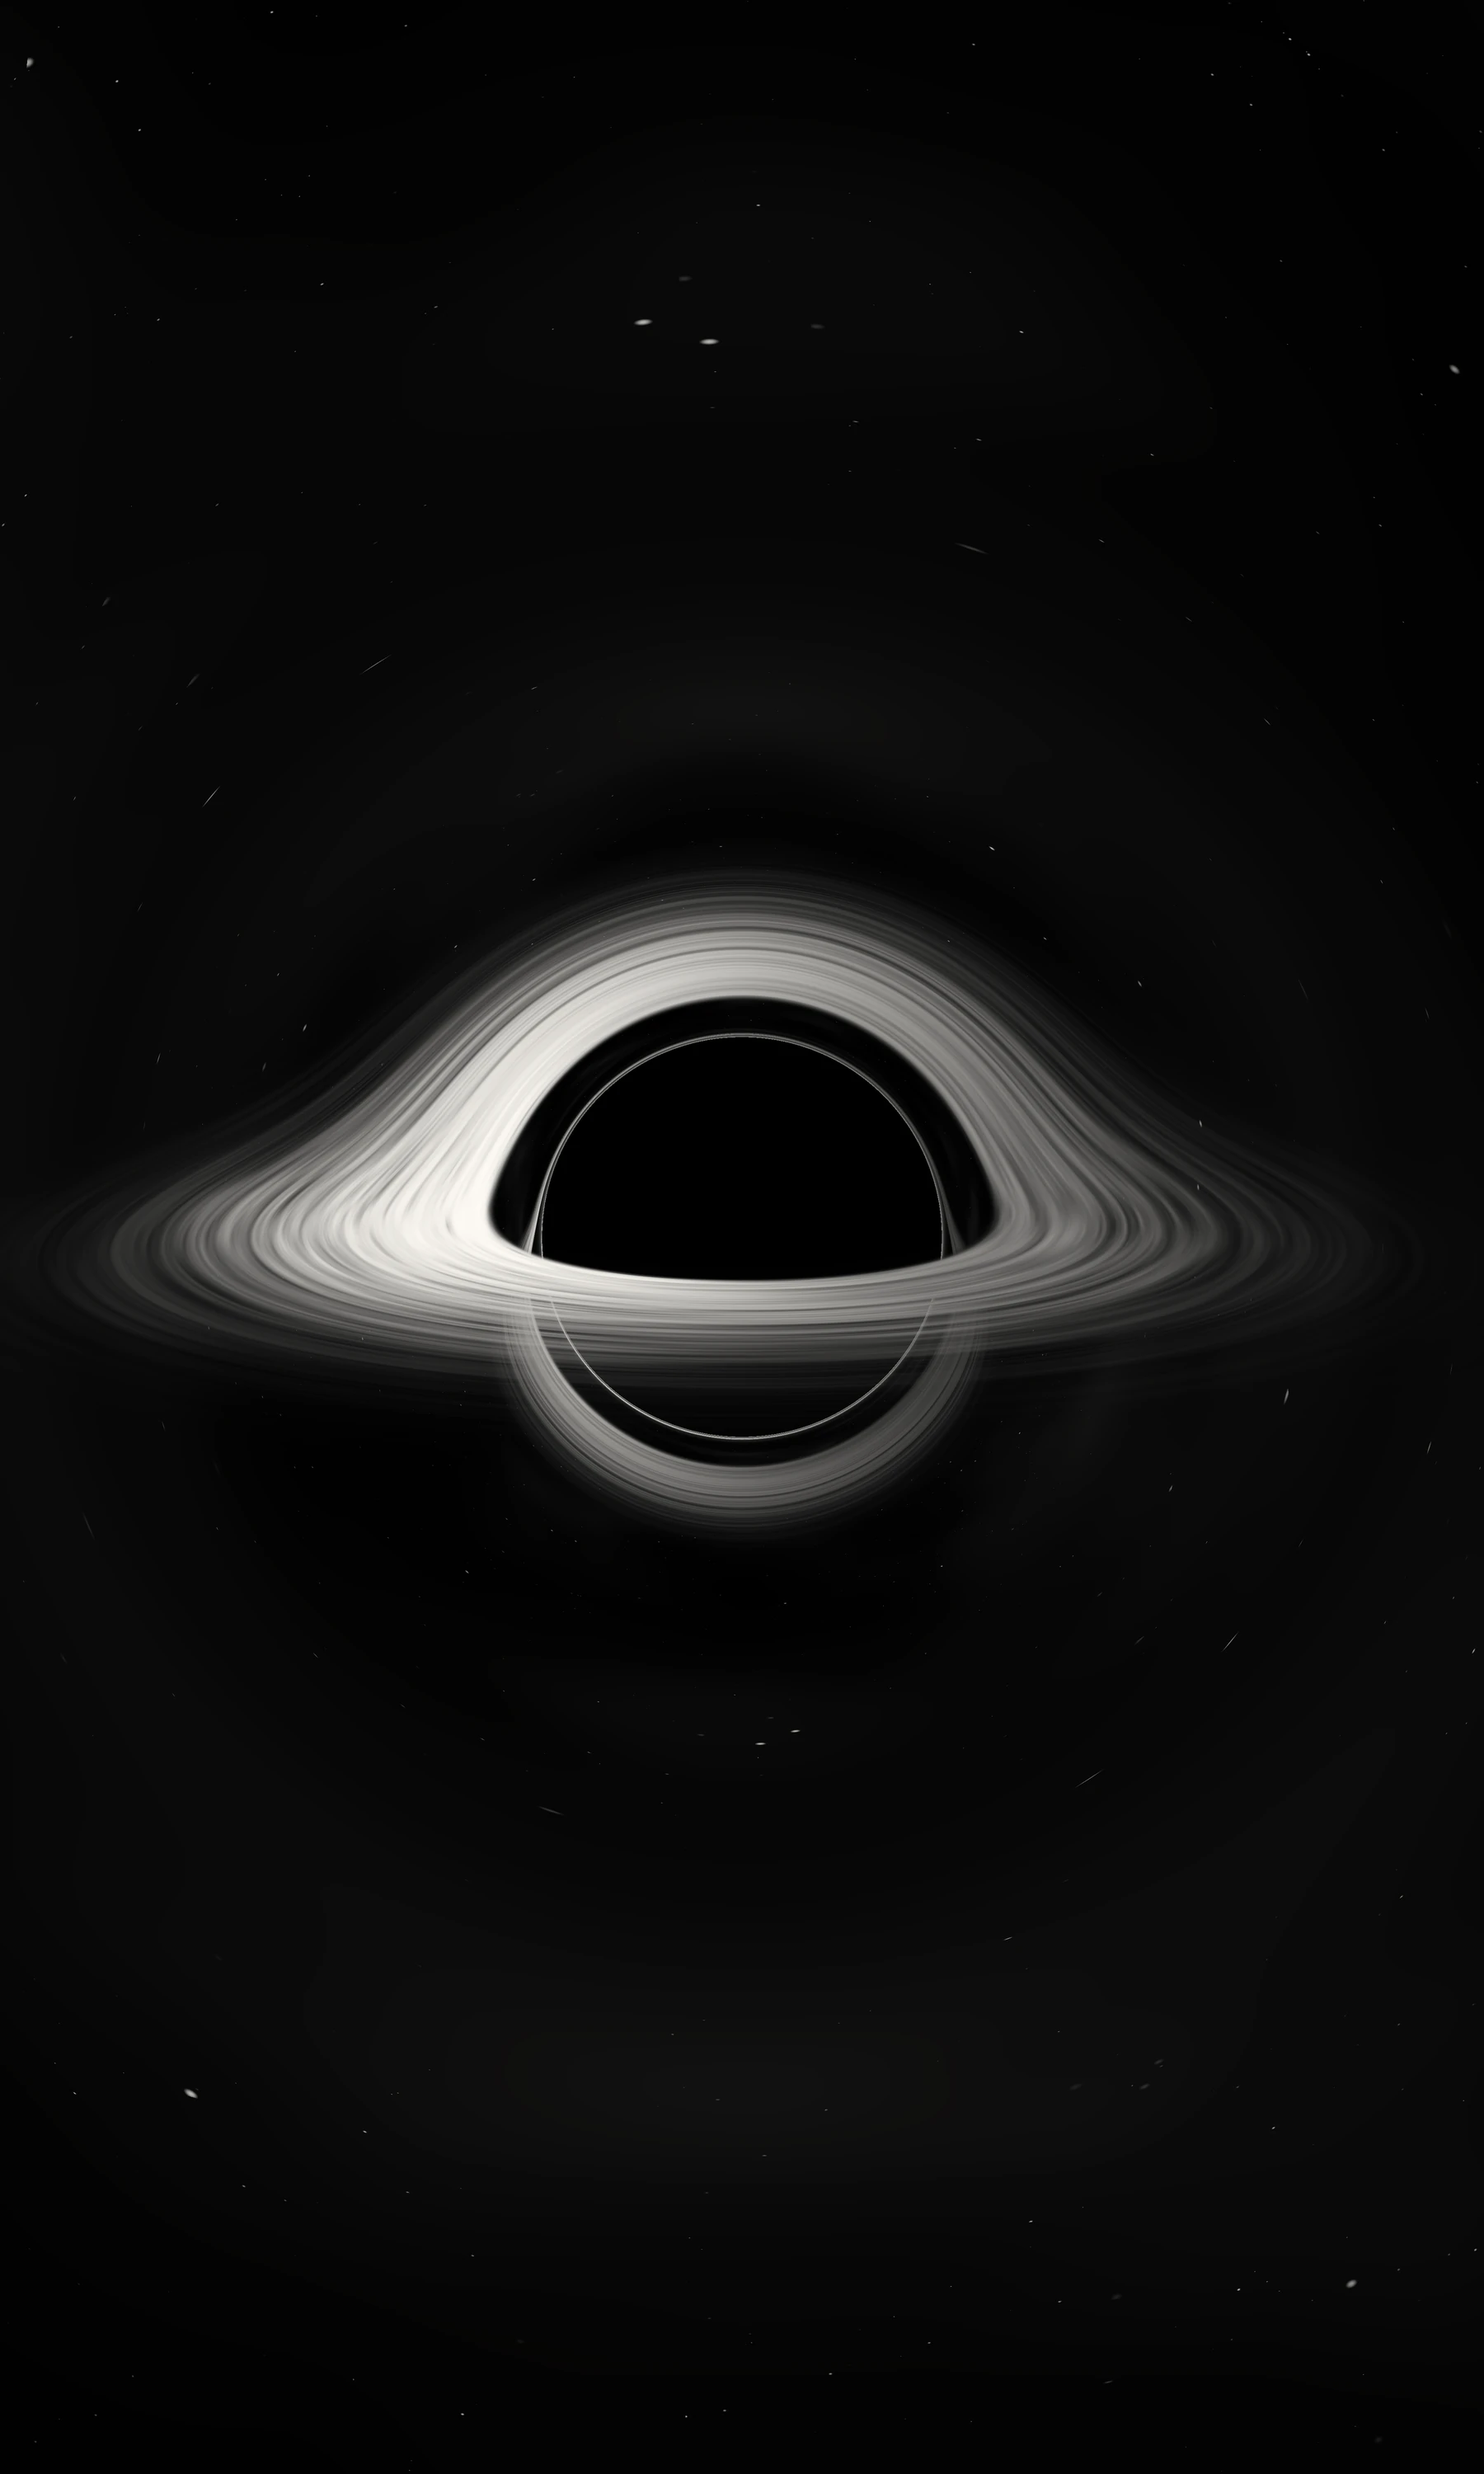
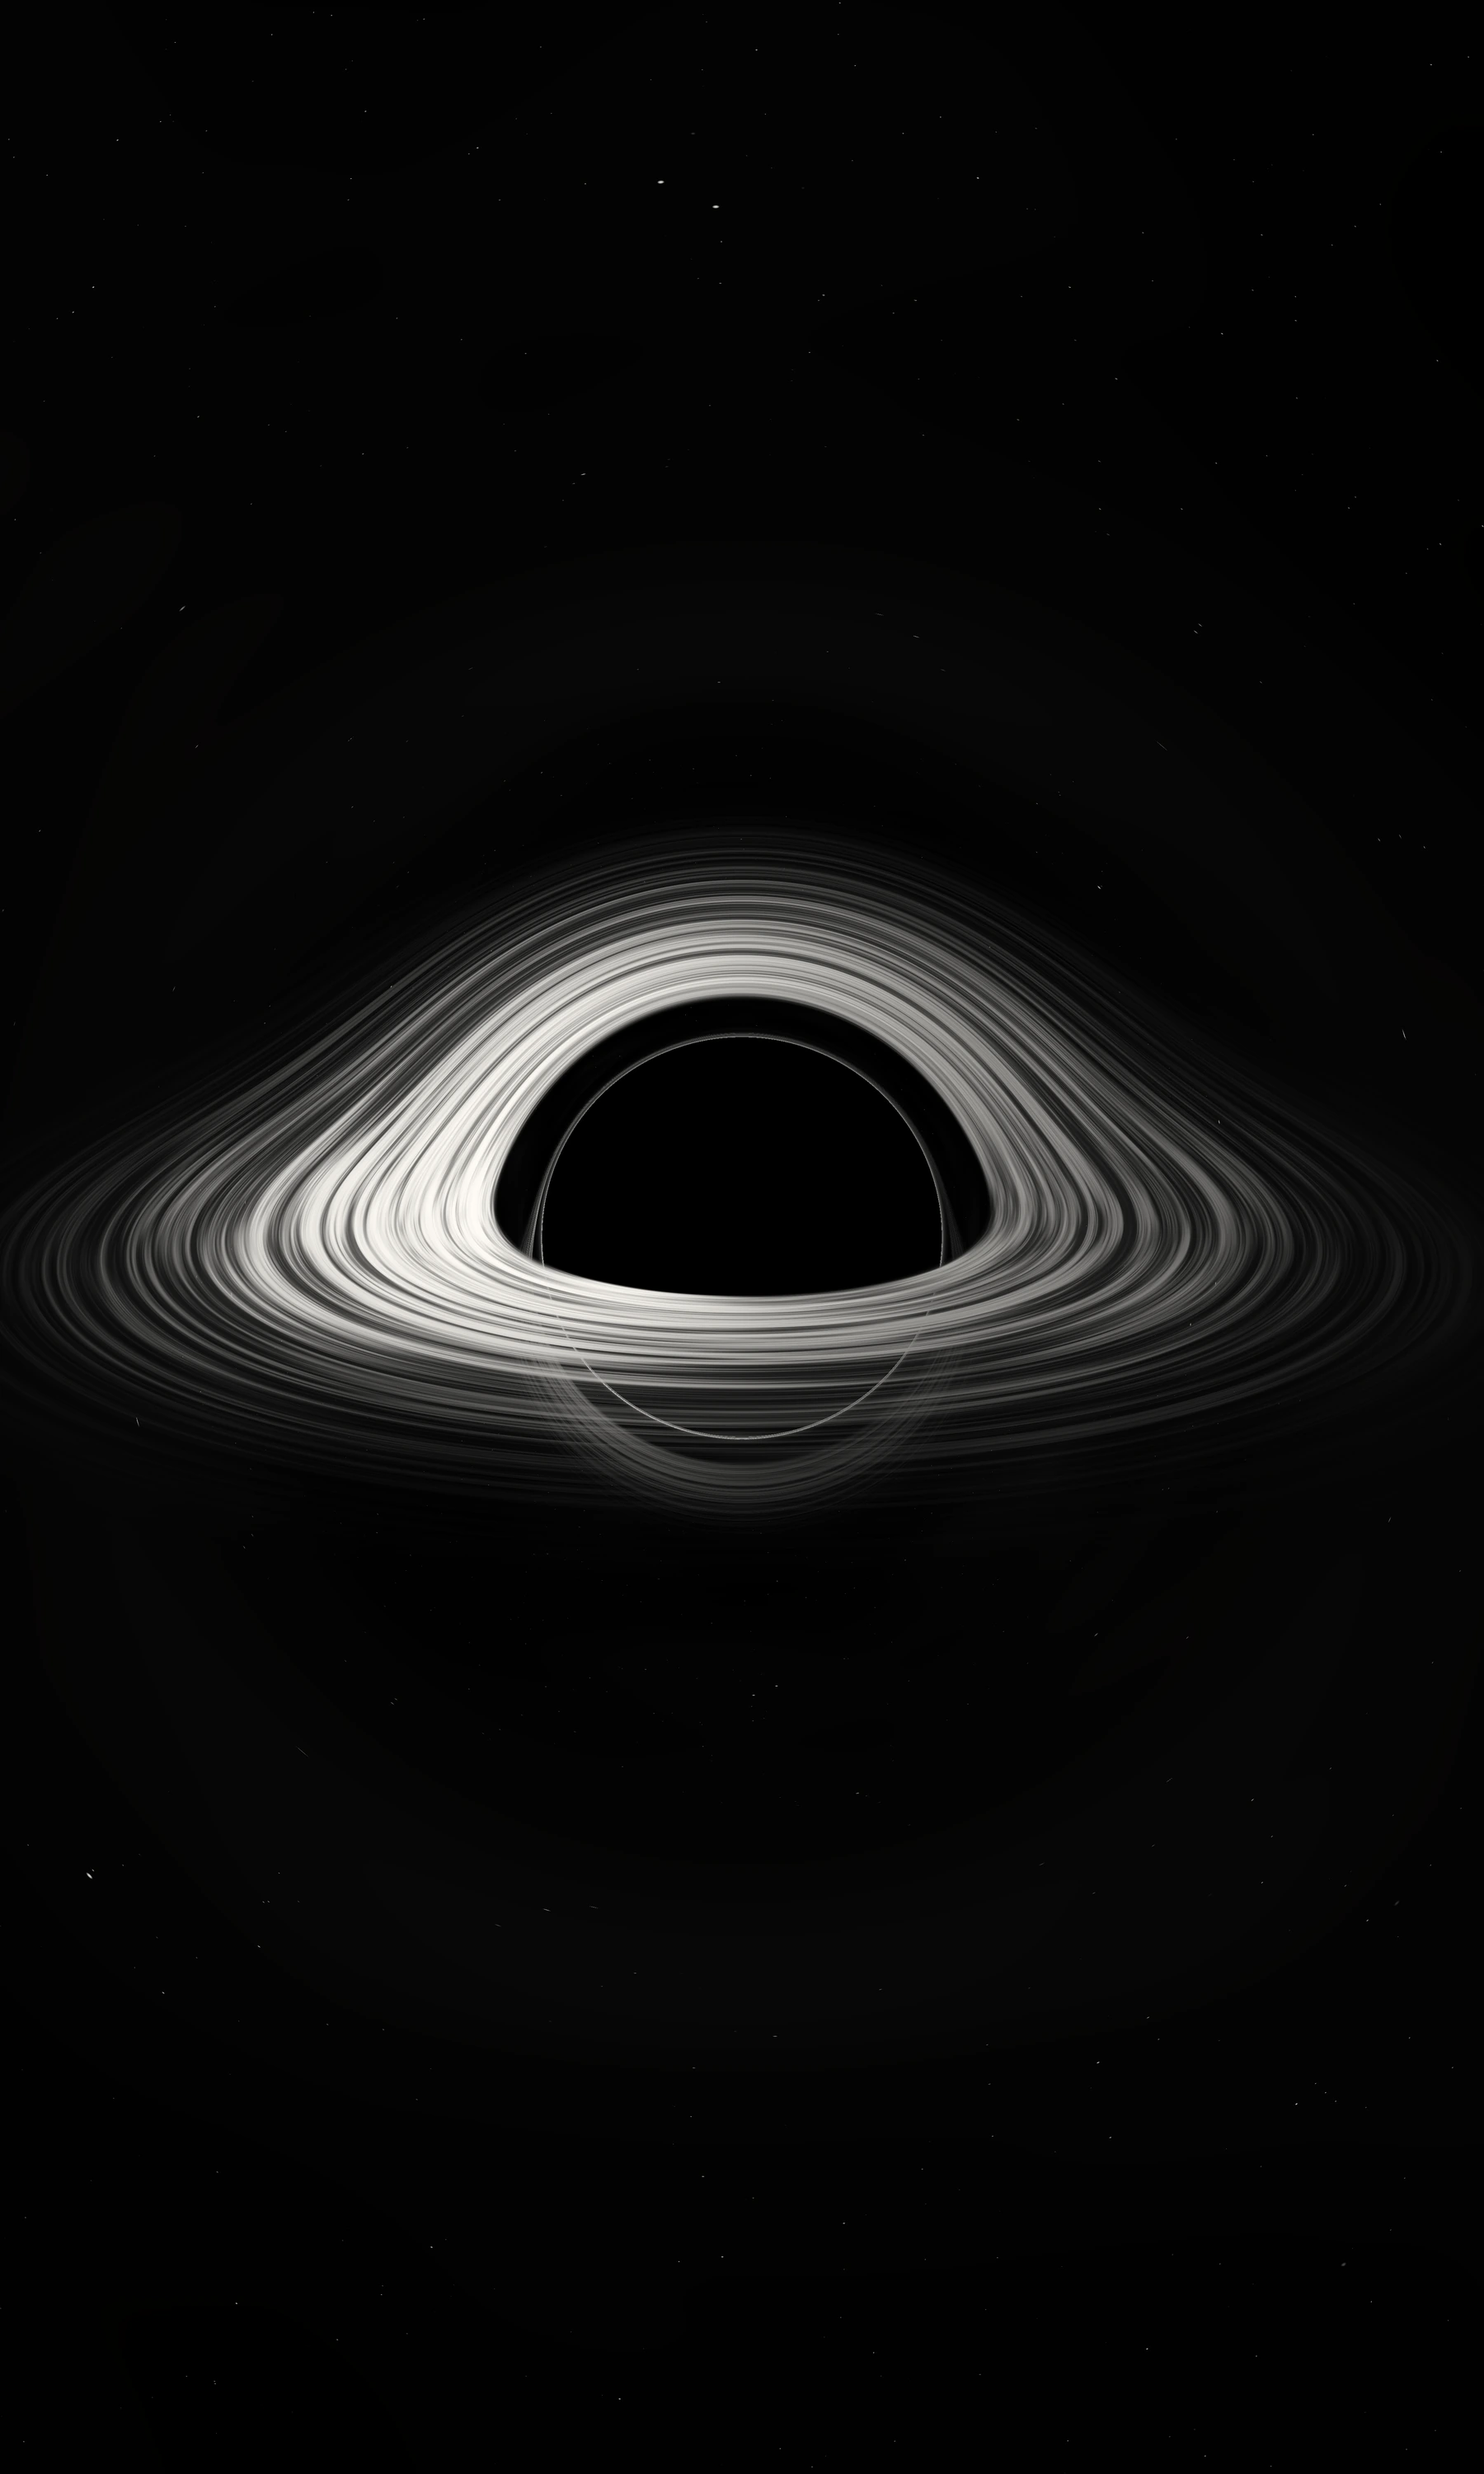
Site: a crisper black hole with a faint lower arc; its renderer lives in marketing/black-hole
No haze, finer high-contrast streaks with a clean outer edge, pinpoint stars, full contrast. The camera sits
higher and the underside of the disk is quiet, so the arc under the hole is a thin line.

Changed region(s): [[0.0622, 0.341, 0.8711, 0.62]]

diff --git a/marketing/black-hole/render.html b/marketing/black-hole/render.html
@@ -1,0 +1,98 @@
+<!doctype html><html><body style="margin:0;background:#000">
+<canvas id="c"></canvas>
+<script>
+const FS = `
+    precision highp float;
+    uniform vec2 uRes; uniform float uT; uniform vec2 uLook; uniform float uZoom;
+    float hash(vec2 p){ p = fract(p * vec2(123.34, 456.21)); p += dot(p, p + 45.32); return fract(p.x * p.y); }
+    float noise(vec2 p){ vec2 i = floor(p), f = fract(p); f = f * f * (3. - 2. * f);
+      return mix(mix(hash(i), hash(i + vec2(1, 0)), f.x), mix(hash(i + vec2(0, 1)), hash(i + vec2(1, 1)), f.x), f.y); }
+    float fbm(vec2 p){ float v = 0., a = .5; for (int i = 0; i < 5; i++) { v += a * noise(p); p = p * 2.03 + vec2(1.7, 9.2); a *= .5; } return v; }
+    // the sky, looked up by 3D direction so it has no seam for the lensing to bend into a ring
+    float hash3(vec3 p){ p = fract(p * .3183099 + .1); p *= 17.; return fract(p.x * p.y * p.z * (p.x + p.y + p.z)); }
+    float noise3(vec3 x){ vec3 i = floor(x), f = fract(x); f = f * f * (3. - 2. * f);
+      return mix(mix(mix(hash3(i), hash3(i + vec3(1,0,0)), f.x), mix(hash3(i + vec3(0,1,0)), hash3(i + vec3(1,1,0)), f.x), f.y),
+                 mix(mix(hash3(i + vec3(0,0,1)), hash3(i + vec3(1,0,1)), f.x), mix(hash3(i + vec3(0,1,1)), hash3(i + vec3(1,1,1)), f.x), f.y), f.z); }
+    vec3 sky(vec3 d){
+      vec3 c = vec3(0.);
+      for (int L = 0; L < 3; L++) {
+        float sc = 70. + float(L) * 120.;
+        vec3 g = d * sc, id = floor(g);
+        float h = hash3(id + float(L) * 13.1);
+        if (h > .9) {
+          vec3 o = vec3(hash3(id + 1.3), hash3(id + 5.9), hash3(id + 9.4));
+          float r = length(g - id - o);
+          c += vec3(smoothstep(.075, .0, r) * (.25 + (h - .9) * 18.));
+        }
+      }
+      float haze = noise3(d * 3.) * .6 + noise3(d * 7.) * .3 + noise3(d * 15.) * .1;
+      c += vec3(.012) * pow(haze, 4.) * 4.;
+      return c;
+    }
+    void main(){
+      vec2 uv = (gl_FragCoord.xy - .5 * uRes) / uRes.y * uZoom;
+      float pitch = .28 + uLook.y, yaw = uLook.x;
+      vec3 ro = vec3(sin(yaw) * cos(pitch), sin(pitch), -cos(yaw) * cos(pitch)) * 28.;
+      vec3 fw = normalize(-ro), rt = normalize(cross(vec3(0., 1., 0.), fw)), up = cross(fw, rt);
+      vec3 pos = ro, vel = normalize(fw * 2. + rt * uv.x + up * uv.y);
+      float h2 = dot(cross(pos, vel), cross(pos, vel));
+      vec3 col = vec3(0.); float a = 0., glow = 0., haze = 0.; bool fell = false;
+      for (int i = 0; i < 900; i++) {
+        float r2 = dot(pos, pos), r = sqrt(r2);
+        if (r < 1.) { fell = true; break; }
+        float dt = clamp(.016 * r * r / (r + 2.), .004, .5);   // fine steps near the hole: a clean shadow edge
+        vec3 prev = pos;
+        vel += -1.5 * h2 * pos / (r2 * r2 * r) * dt;
+        pos += vel * dt;
+        // light that skims the photon sphere (r = 1.5) piles up into the thin bright ring around the shadow
+        glow += dt * exp(-pow((r - 1.52) * 7., 2.));
+        // a little light scattered just above and below the disk, so it blooms instead of ending in a hard line
+        float pr = length(pos.xz);
+        if (pr > 2.6 && pr < 11.) haze += dt * exp(-pos.y * pos.y * 30.) * pow(3. / pr, 3.);
+        if (prev.y * pos.y < 0.) {                                 // crossed the disk plane
+          vec3 q = mix(prev, pos, prev.y / (prev.y - pos.y));
+          float qr = length(q.xz);
+          if (qr > 2.45 && qr < 12.) {
+            float ang = atan(q.z, q.x) + uT * .9 * pow(qr, -1.5);  // inner gas orbits faster, so the streaks shear
+            vec2 cs = vec2(cos(ang), sin(ang));
+            // streaks that follow the orbit: fine in radius, long along the circle (sampled on the circle: no seam)
+            float streak = noise3(vec3(qr * 9., cs * 1.2)) * .5 + noise3(vec3(qr * 26., cs * 2.5)) * .3 + noise3(vec3(qr * 70., cs * 5.)) * .2;
+            streak = smoothstep(.25, .85, streak);
+            float x = (qr - 2.45) / 9.55;
+            float profile = smoothstep(0., .02, x) * pow(1. - x, 2.2) * smoothstep(1., .82, x);   // a sharp, hot inner edge fading outward
+            vec3 orbit = normalize(vec3(-q.z, 0., q.x));
+            float beta = sqrt(.5 / qr);
+            float dop = 1. / (1. - beta * dot(orbit, -normalize(vel)));
+            float lum = profile * (.3 + 1.2 * streak) * pow(dop, 2.4) * 1.25;
+            float op = clamp(profile * (.6 + .9 * streak) * 1.6, 0., 1.);
+            float under = prev.y < 0. ? .16 : 1.;   // the disk seen from below (the arc under the hole) stays quieter
+            col += (1. - a) * op * vec3(lum * under);
+            a += (1. - a) * op;
+            if (a > .985) break;
+          }
+        }
+        if (r2 > 2500.) break;
+      }
+      if (!fell) col += (1. - a) * sky(normalize(vel));
+      if (!fell) col += vec3(glow * .16) * (1. - a * .7);        // the shadow stays black: light that falls in never comes out
+      
+      col = 1. - exp(-col * 1.2);
+      col = pow(col, vec3(.92)) * vec3(1., .988, .965);           // the page's off-white
+      gl_FragColor = vec4(col, 1.);
+    }`;
+const VS = "attribute vec2 p; void main(){ gl_Position = vec4(p, 0., 1.); }";
+window.render = (W, H, zoom) => {
+  const cv = document.getElementById("c"); cv.width = W; cv.height = H;
+  const gl = cv.getContext("webgl", { preserveDrawingBuffer: true, antialias: false });
+  const sh = (t, src) => { const o = gl.createShader(t); gl.shaderSource(o, src); gl.compileShader(o); if (!gl.getShaderParameter(o, gl.COMPILE_STATUS)) throw gl.getShaderInfoLog(o); return o; };
+  const pr = gl.createProgram(); gl.attachShader(pr, sh(gl.VERTEX_SHADER, VS)); gl.attachShader(pr, sh(gl.FRAGMENT_SHADER, FS)); gl.linkProgram(pr); gl.useProgram(pr);
+  gl.bindBuffer(gl.ARRAY_BUFFER, gl.createBuffer()); gl.bufferData(gl.ARRAY_BUFFER, new Float32Array([-1,-1,3,-1,-1,3]), gl.STATIC_DRAW);
+  const l = gl.getAttribLocation(pr, "p"); gl.enableVertexAttribArray(l); gl.vertexAttribPointer(l, 2, gl.FLOAT, false, 0, 0);
+  const U = (n) => gl.getUniformLocation(pr, n);
+  gl.viewport(0, 0, W, H); gl.uniform2f(U("uRes"), W, H); gl.uniform1f(U("uT"), 6.); gl.uniform2f(U("uLook"), 0, 0); gl.uniform1f(U("uZoom"), zoom);
+  gl.enable(gl.SCISSOR_TEST);
+  const strip = 64;                                   // small strips, so the GPU never stalls long enough to reset
+  for (let y = 0; y < H; y += strip) { gl.scissor(0, y, W, strip); gl.drawArrays(gl.TRIANGLES, 0, 3); gl.finish(); }
+  return cv.toDataURL("image/png");
+};
+</script></body></html>

diff --git a/marketing/black-hole/render.js b/marketing/black-hole/render.js
@@ -1,0 +1,14 @@
+const puppeteer = require("puppeteer-core"); const fs = require("fs"); const path = require("path");
+(async () => {
+  const b = await puppeteer.launch({ executablePath: "C:/Program Files (x86)/Microsoft/Edge/Application/msedge.exe", headless: "new", protocolTimeout: 900000,
+    args: ["--use-angle=d3d11", "--enable-gpu", "--ignore-gpu-blocklist", "--disable-gpu-watchdog"] });
+  const p = await b.newPage();
+  await p.goto(require("url").pathToFileURL(path.resolve(__dirname, "render.html")).href);
+  for (const [name, W, H, zoom] of [["wide", 7680, 4800, 1.35], ["tall", 3600, 6000, 2.3]]) {
+    const t = Date.now();
+    const url = await p.evaluate((W, H, z) => window.render(W, H, z), W, H, zoom);
+    fs.writeFileSync(path.join(__dirname, `${name}.png`), Buffer.from(url.split(",")[1], "base64"));
+    console.log(name, ((Date.now() - t) / 1000).toFixed(1) + "s");
+  }
+  await b.close();
+})();

diff --git a/site/index.html b/site/index.html
@@ -37,7 +37,7 @@
          -webkit-mask-image: linear-gradient(#000 72%, transparent); mask-image: linear-gradient(#000 72%, transparent); }
   .sky picture { position: absolute; inset: -14px; display: block; transform: translate(var(--px, 0px), var(--py, 0px));
                  transition: transform 1.4s cubic-bezier(.16,1,.3,1); }
-  .sky img { width: 100%; height: 100%; object-fit: cover; display: block; opacity: .92; }
+  .sky img { width: 100%; height: 100%; object-fit: cover; display: block; }
   @media (prefers-reduced-motion: reduce) { .sky picture { transition: none; } }
   main, nav, footer { position: relative; z-index: 1; }
   .wrap { width: min(1080px, 100% - 32px); margin-inline: auto; }

diff --git a/marketing/black-hole/README.md b/marketing/black-hole/README.md
@@ -1,0 +1,11 @@
+# The black hole on lithnode.com
+
+`render.html` is a ray tracer: every pixel's light ray is bent around the hole with the Schwarzschild equation, so
+the lensing, the photon ring and the brighter approaching side come out of the physics. `render.js` (Node +
+`puppeteer-core`, using installed Edge) renders it once at 7680x4800 (wide) and 3600x6000 (tall, for phones).
+
+Then scale each down by half with Lanczos and save as WebP (quality 92) into `site/media/black-hole-wide.webp` and
+`site/media/black-hole-tall.webp`. The site shows the image; nothing is rendered in visitors' browsers.
+
+Knobs in `render.html`: `pitch` (camera height: higher means a thinner arc under the hole), `under` (how bright the
+underside of the disk is), `streak` (disk texture), `glow` (photon ring), and the star threshold in `sky()`.
